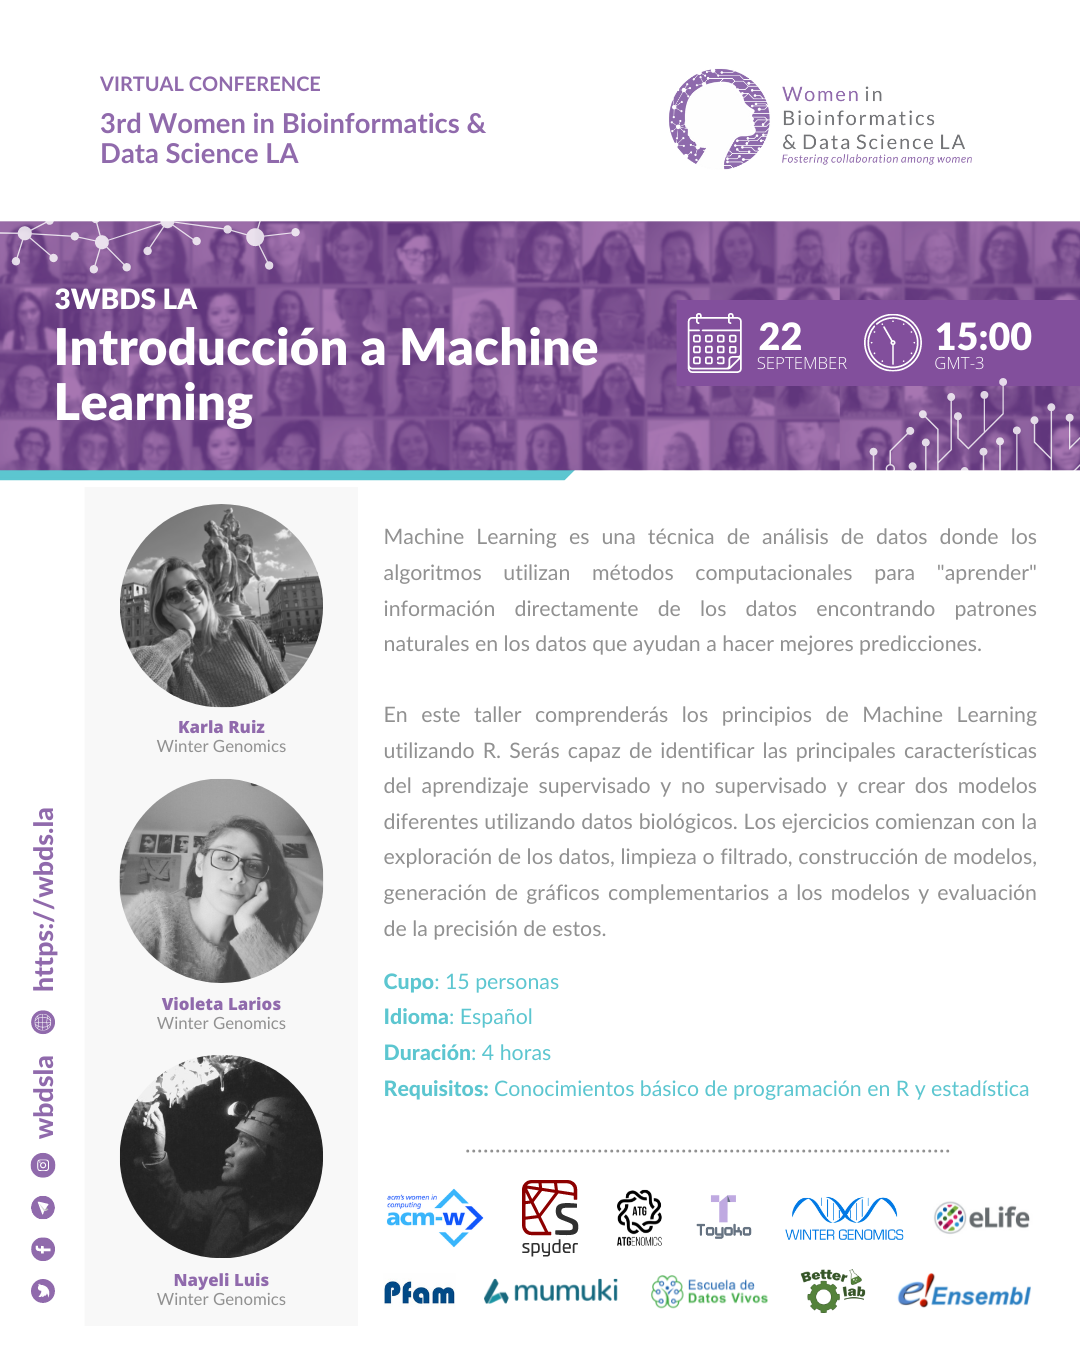
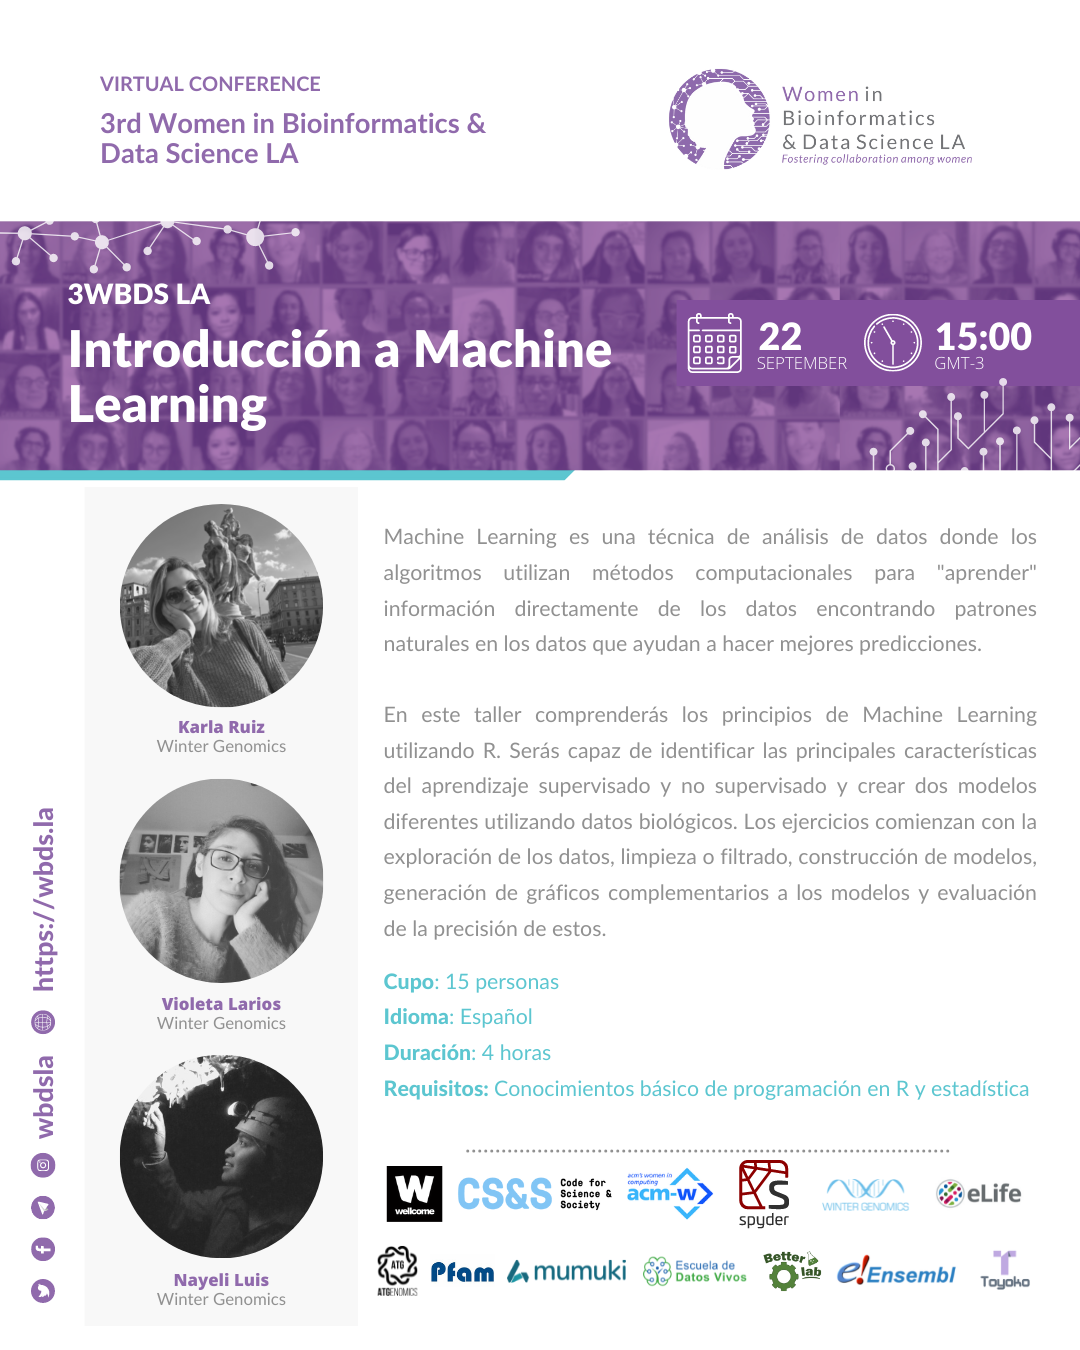
new workshops and metadocencia

Changed region(s): [[0.3361, 0.84, 0.9472, 0.9644], [0.0306, 0.1867, 0.5806, 0.3422]]

diff --git a/conferences/3WBDSLAC/assets/js/workshops.js b/conferences/3WBDSLAC/assets/js/workshops.js
@@ -2,23 +2,35 @@ const dayOneButton = document.getElementById('workshop-registration');
 const mlWorkshop = $('#machine-learning');
 const bmWorkshop = $('#bacterial-metagenomics');
 const ensemblWorkshop = $('#ensembl-workshop');
+const pfamWorkshop = $('#pfam-workshop');
+const atgWorkshop = $('#atg-workshop');
 const workshopTables = $('#workshop-tables');
-
-
 
 function renderWorkshopsSection() {
     const workshopSectionContent = $(`
-        <a id="mlWorkshopFlyer" href="#" target="_blank" class="workshopsflyer disable">
+        <a id="mlWorkshopFlyer" href="#" class="workshopsflyer disable">
             <img src="./assets/img/workshops/ml_workshop.png" alt="machine learning workshop flyer">
         </a>
 
-        <a id='bmWorkshopFlyer' href="#" target="_blank" class="workshopsflyer disable">
+        <a id='bmWorkshopFlyer' href="#" class="workshopsflyer disable">
             <img src="./assets/img/workshops/bm_workshop.png" alt="machine learning workshop flyer">
         </a>
 
-        <a id='ensemblWorkshopFlyer' href="#" target="_blank" class="workshopsflyer disable">
+        <a id='ensemblWorkshopFlyer' href="#" class="workshopsflyer disable">
             <img src="./assets/img/workshops/ensembl_workshop.png" alt="ensembl workshop flyer">
         </a>
+
+        <a id='pfamWorkshopFlyer' href="#" class="workshopsflyer disable">
+            <img src="./assets/img/workshops/interpro_workshop.png" alt="pfam workshop flyer">
+        </a>
+
+        <a id='pfamWorkshopFlyer' href="#" class="workshopsflyer disable">
+            <img src="./assets/img/workshops/interpro_workshop.png" alt="pfam workshop flyer">
+        </a>
+
+        <a id='atgWorkshopFlyer' href="#" class="workshopsflyer disable">
+            <img src="./assets/img/workshops/atg_workshop.png" alt="atg workshop flyer">
+        </a>        
     `);
 
 
@@ -27,35 +39,75 @@ function renderWorkshopsSection() {
     const mlWorkshopFlyer = $('#mlWorkshopFlyer');
     const bmWorkshopFlyer = $('#bmWorkshopFlyer');
     const ensemblWorkshopFlyer = $('#ensemblWorkshopFlyer');
+    const pfamWorkshopFlyer = $('#pfamWorkshopFlyer');
+    const atgWorkshopFlyer = $('#atgWorkshopFlyer');
 
     mlWorkshop.on('click', () => {
         $(mlWorkshop).addClass('orange-element');
-        $(ensemblWorkshop).removeClass('orange-element');
         $(bmWorkshop).removeClass('orange-element');
+        $(ensemblWorkshop).removeClass('orange-element');
+        $(pfamWorkshop).removeClass('orange-element');
+        $(atgWorkshop).removeClass('orange-element');
         mlWorkshopFlyer.removeClass("disable");
         bmWorkshopFlyer.addClass("disable");
         ensemblWorkshopFlyer.addClass("disable");
+        pfamWorkshopFlyer.addClass("disable");
+        atgWorkshopFlyer.addClass("disable");
     });
 
 
     bmWorkshop.on('click', () => {
+        $(mlWorkshop).removeClass('orange-element');
         $(bmWorkshop).addClass('orange-element');
         $(ensemblWorkshop).removeClass('orange-element');
-        $(mlWorkshop).removeClass('orange-element');
+        $(pfamWorkshop).removeClass('orange-element');
+        $(atgWorkshop).removeClass('orange-element');
         mlWorkshopFlyer.addClass("disable");
-        ensemblWorkshopFlyer.addClass("disable");
         bmWorkshopFlyer.removeClass("disable");
+        ensemblWorkshopFlyer.addClass("disable");
+        pfamWorkshopFlyer.addClass("disable");
+        atgWorkshopFlyer.addClass("disable");
     });    
 
 
     ensemblWorkshop.on('click', () => {
-        $(ensemblWorkshop).addClass('orange-element');
-        $(bmWorkshop).removeClass('orange-element');
         $(mlWorkshop).removeClass('orange-element');
+        $(bmWorkshop).removeClass('orange-element');
+        $(ensemblWorkshop).addClass('orange-element');
+        $(pfamWorkshop).removeClass('orange-element');
+        $(atgWorkshop).removeClass('orange-element');
         mlWorkshopFlyer.addClass("disable");
         bmWorkshopFlyer.addClass("disable");
         ensemblWorkshopFlyer.removeClass("disable");
+        pfamWorkshopFlyer.addClass("disable");
+        atgWorkshopFlyer.addClass("disable");
     });   
+    
+    pfamWorkshop.on('click', () => {
+        $(mlWorkshop).removeClass('orange-element');
+        $(bmWorkshop).removeClass('orange-element');
+        $(ensemblWorkshop).removeClass('orange-element');
+        $(pfamWorkshop).addClass('orange-element');
+        $(atgWorkshop).removeClass('orange-element');
+        mlWorkshopFlyer.addClass("disable");
+        bmWorkshopFlyer.addClass("disable");
+        ensemblWorkshopFlyer.addClass("disable");
+        pfamWorkshopFlyer.removeClass("disable");
+        atgWorkshopFlyer.addClass("disable");
+    }); 
+
+    atgWorkshop.on('click', () => {
+        $(mlWorkshop).removeClass('orange-element');
+        $(bmWorkshop).removeClass('orange-element');
+        $(ensemblWorkshop).removeClass('orange-element');
+        $(pfamWorkshop).removeClass('orange-element');
+        $(atgWorkshop).addClass('orange-element');
+        mlWorkshopFlyer.addClass("disable");
+        bmWorkshopFlyer.addClass("disable");
+        ensemblWorkshopFlyer.addClass("disable");
+        pfamWorkshopFlyer.addClass("disable");
+        atgWorkshopFlyer.removeClass("disable");
+    }); 
 
 }
 

diff --git a/conferences/3WBDSLAC/workshops.html b/conferences/3WBDSLAC/workshops.html
@@ -90,9 +90,11 @@
                     <span class="underline"></span>
                 </div>
                 <div class="prgram-butons">
+                    <a href="#" class="wshop-button button" id="ensembl-workshop">Browsing Genes and Genomes</a>
+                    <a href="#" class="wshop-button button" id="atg-workshop">Genomic Variants Tour</a>
+                    <a href="#" class="wshop-button button" id="pfam-workshop">Introduction to InterPro</a>
                     <a href="#" class="wshop-button button" id="machine-learning">Introduction to Machine Learning</a>
                     <a href="#" class="wshop-button button" id="bacterial-metagenomics">Bacterial Metagenomics</a>
-                    <a href="#" class="wshop-button button" id="ensembl-workshop">Browsing Genes and Genomes</a>
                 </div>
                 <div id="workshop-tables"></div>
                 <div id="workshop-registration"></div>

diff --git a/conferences/3WBDSLAC/index.html b/conferences/3WBDSLAC/index.html
@@ -235,6 +235,7 @@
                 <p class="big-text ">MEDIA PARTNERS:</p>
                 <a href="#" target="_blank"><img src="assets/img/logos/umbrella.png" alt="Data Umbrella" id="umbrella"></a>
                 <a href="#" target="_blank"><img src="assets/img/logos/nordic.png" alt="Nordic" id="nordic"></a>
+                <a href="#" target="_blank"><img src="assets/img/logos/metadocencia.png" alt="Metadocencia" id="metadocencia"></a>
             </div>
         </section>
 

diff --git a/conferences/3WBDSLAC/style/main.css b/conferences/3WBDSLAC/style/main.css
@@ -844,7 +844,7 @@ nav a:hover {
     height: 2.5em;
 }
 
-#wiki-arg,#umbrella,#nordic{
+#wiki-arg,#umbrella,#nordic,#metadocencia{
     height: 6.2em;
 }
 
